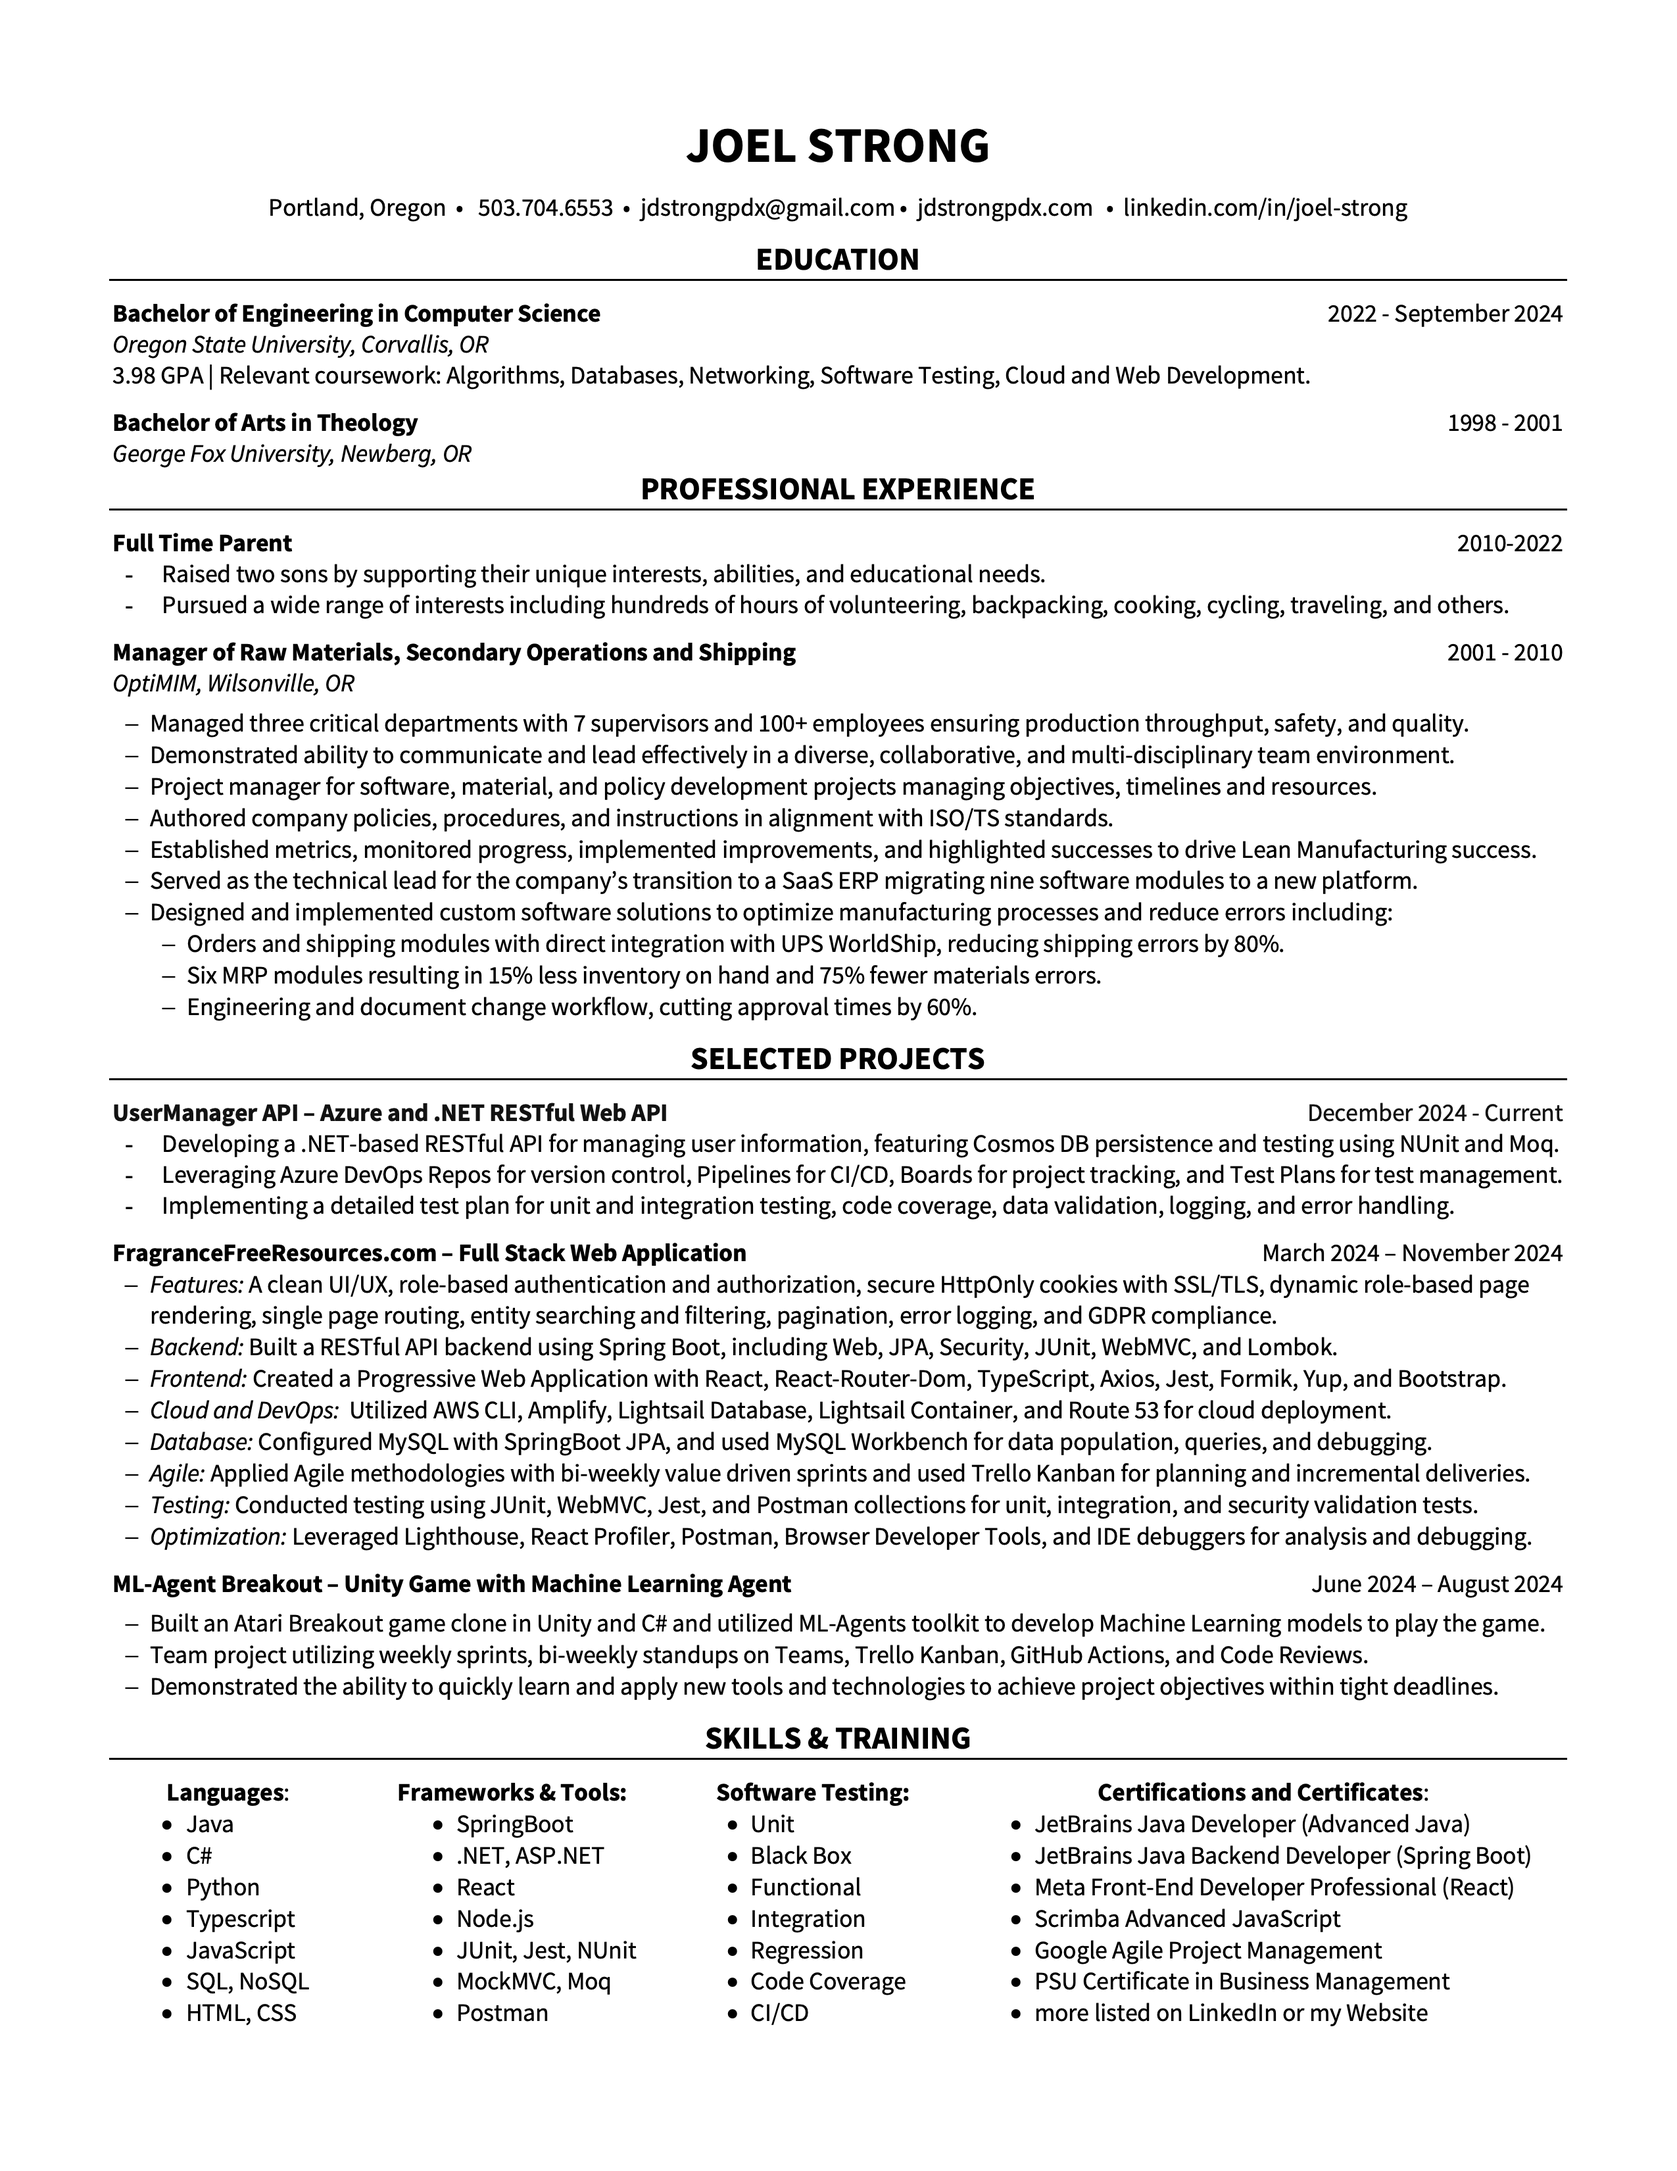
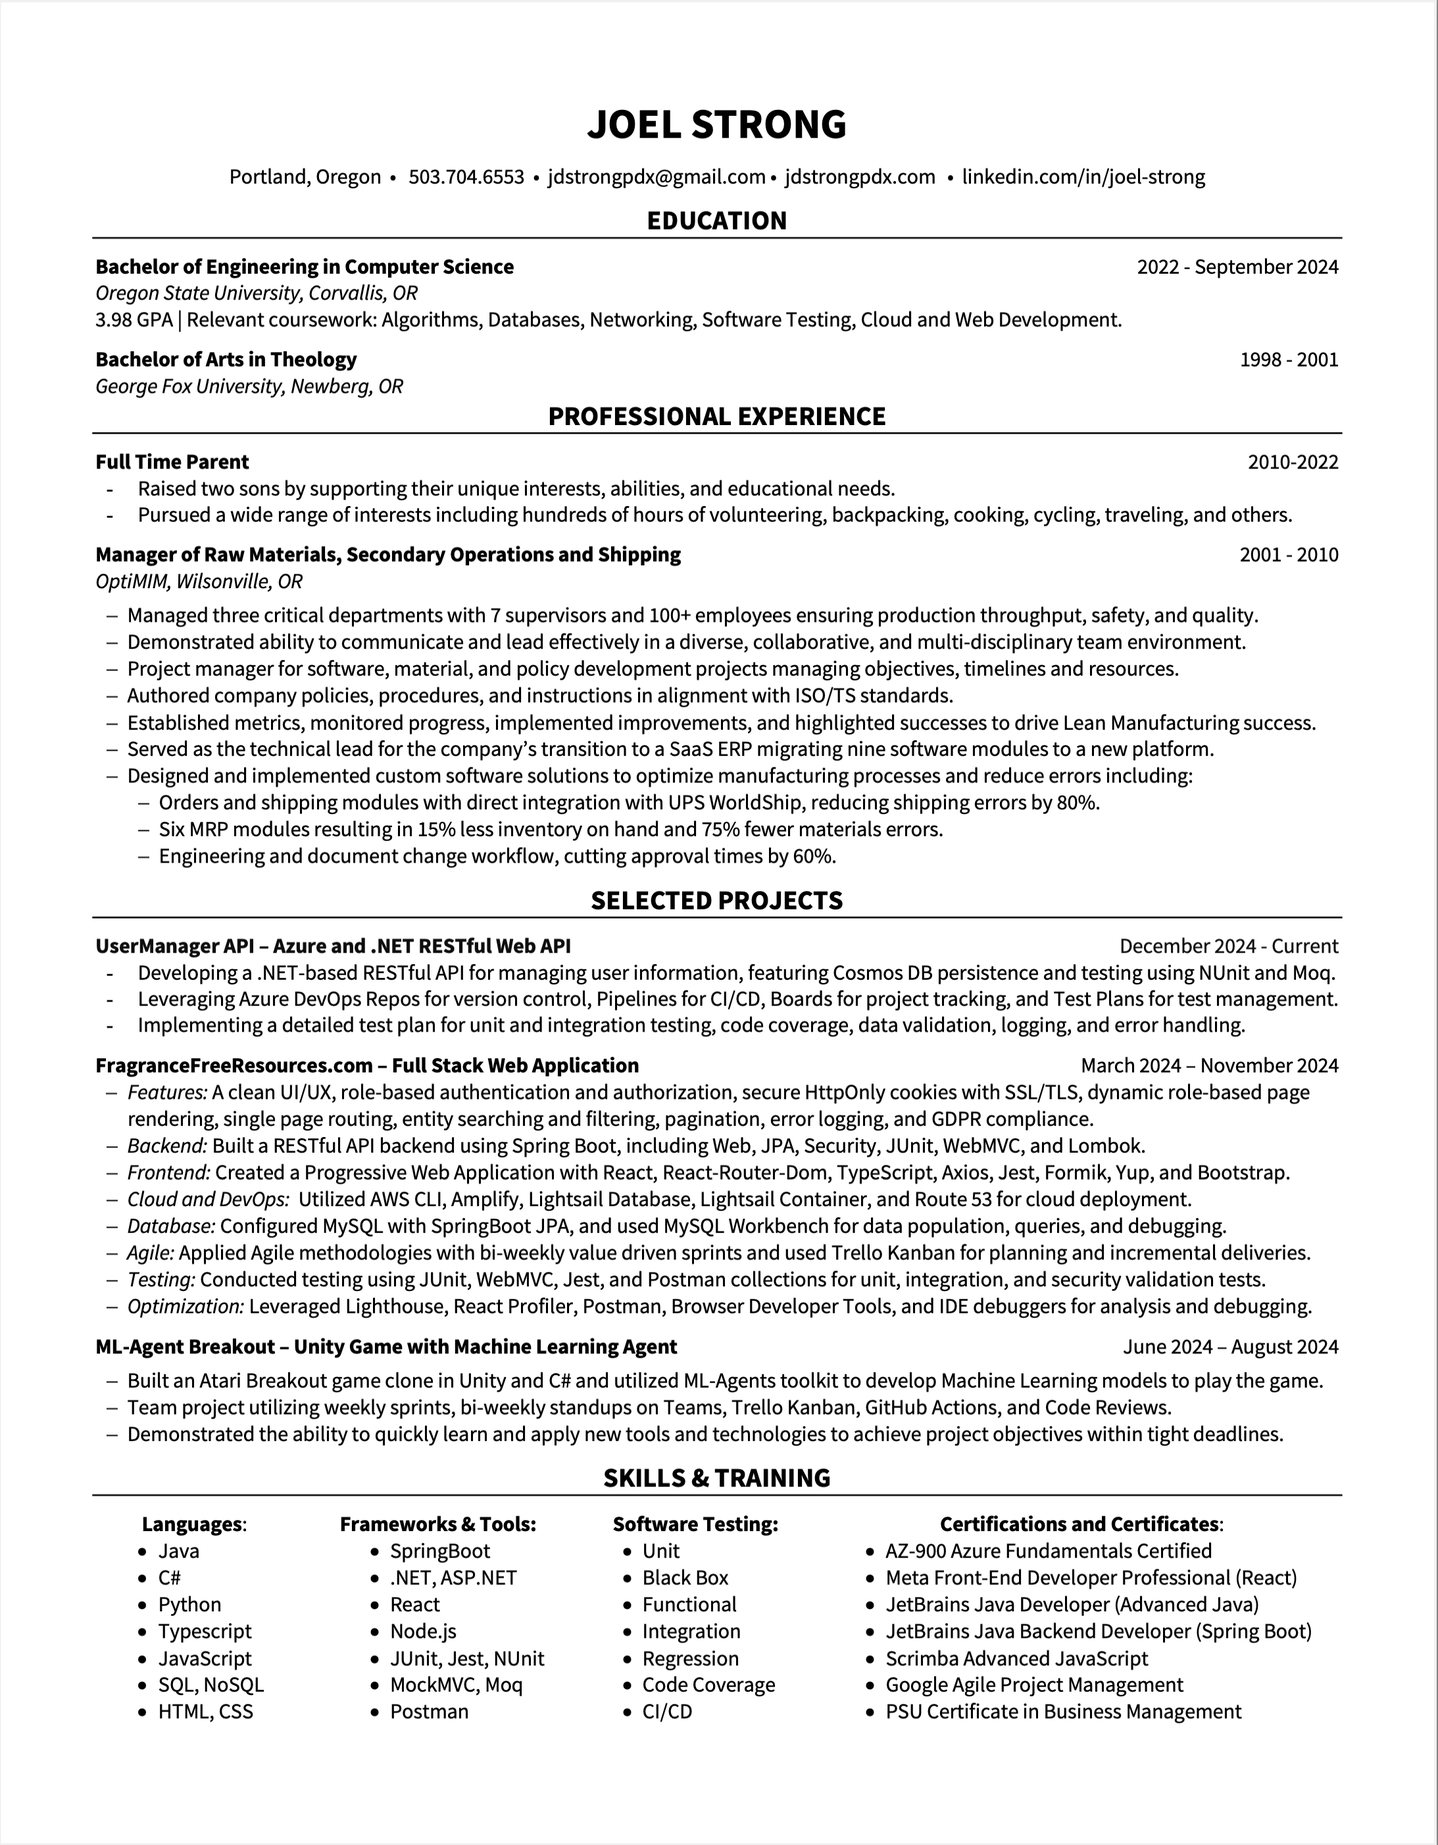
Updated resume and added specialText to display on skills cards.

diff --git a/src/data/certificateData.ts b/src/data/certificateData.ts
@@ -3,36 +3,42 @@ import {ICertificationCategory} from "../interfaces/ICertificate";
 
 const certificateData: ICertificationCategory[] = [
     {
-        title: "Java",
+        title: "Microsoft & Azure Certifications & Certificates",
         certifications: [
             {
-                link: "https://hyperskill.org/certificates/f2e02db5-f71e-49f6-8d0e-16ab49feb9a7.pdf",
-                type: "normal",
-                imgLink: "./certifications/IntroJava.png",
-                title: "Introduction to Java",
-                skills: [SkillsEnum.Java]
-            },
-            {
-                link: "https://hyperskill.org/certificates/df6a1e14-ac88-40f7-96bf-2a5e31fa7e14.pdf",
-                type: "normal",
-                imgLink: "./certifications/JavaDeveloper.png",
-                title: "Java Developer",
-                skills: [SkillsEnum.Java]
-            },
-            {
-                link: "https://hyperskill.org/certificates/e2d4693c-4e90-450d-a207-7d9acc9e374c.pdf",
-                type: "normal",
-                imgLink: "./certifications/IntroSpringBoot.png",
-                title: "Introduction to Spring Boot",
-                skills: [SkillsEnum.Java, SkillsEnum.SpringBoot]
-            },
-            {
-                link: "https://hyperskill.org/certificates/e2d4693c-4e90-450d-a207-7d9acc9e374c.pdf",
-                type: "normal",
-                imgLink: "./certifications/JavaBackend.png",
-                title: "Java Backend Developer (Spring Boot)",
-                skills: [SkillsEnum.Java, SkillsEnum.SpringBoot]
-            },
+                link: "https://learn.microsoft.com/api/credentials/share/en-us/JoelStrong-5632/3D4C9BB4C55BA02D?sharingId=70B86CF6B6C94B8",
+                type: "wide",
+                imgLink: "./certifications/AZ900.png",
+                title: "AZ-900 Azure Fundamentals Certified",
+                redText: "AZ-900 Azure Fundamentals Certified",
+                skills: [SkillsEnum.Azure]
+            }, {
+                link: "https://coursera.org/verify/CV3XUHHEAVSP",
+                type: "wide",
+                imgLink: "./certifications/MicrosoftBackend.png",
+                title: "Foundations of Coding Back-End",
+                skills: [SkillsEnum.CSharp, SkillsEnum.DotNet]
+            }, {
+                link: "https://coursera.org/verify/VRG300EL9FD4",
+                type: "wide",
+                imgLink: "./certifications/CSharp.png",
+                title: "Introduction to Programming with C#",
+                skills: [SkillsEnum.CSharp]
+            }
+            , {
+                link: "https://coursera.org/verify/P5SNT8T9G54C",
+                type: "wide",
+                imgLink: "./certifications/dotNetBackend.png",
+                title: "Back-End Development with .NET",
+                skills: [SkillsEnum.CSharp, SkillsEnum.DotNet, SkillsEnum.AspNet]
+            }
+            , {
+                link: "https://coursera.org/verify/specialization/UXVG5T2J9G5Y",
+                type: "wide",
+                imgLink: "./certifications/AZ900prep.png",
+                title: "AZ-900 Azure Fundamentals Exam Prep",
+                skills: [SkillsEnum.Azure]
+            }
         ]}, {
         title: "Meta Front-End Developer Professional Certificate",
         certifications: [
@@ -88,7 +94,7 @@ const certificateData: ICertificationCategory[] = [
                 skills: []
             }
         ]}, {
-        title: "Front-End",
+        title: "Front-End Certificates",
         certifications: [
             {
                 link: "https://coursera.org/verify/specialization/CFTYPY5EEDKE",
@@ -116,43 +122,38 @@ const certificateData: ICertificationCategory[] = [
                 skills: [SkillsEnum.JavaScript]
             }
         ]}, {
-        title: "Microsoft Certifications",
+        title: "Java",
         certifications: [
             {
-                link: "https://learn.microsoft.com/api/credentials/share/en-us/JoelStrong-5632/3D4C9BB4C55BA02D?sharingId=70B86CF6B6C94B8",
-                type: "wide",
-                imgLink: "./certifications/AZ900.png",
-                title: "Microsoft Certified: Azure Fundamentals",
-                skills: [SkillsEnum.Azure]
-            }, {
-                link: "https://coursera.org/verify/CV3XUHHEAVSP",
-                type: "wide",
-                imgLink: "./certifications/MicrosoftBackend.png",
-                title: "Foundations of Coding Back-End",
-                skills: [SkillsEnum.CSharp, SkillsEnum.DotNet]
-            }, {
-                link: "https://coursera.org/verify/VRG300EL9FD4",
-                type: "wide",
-                imgLink: "./certifications/CSharp.png",
-                title: "Introduction to Programming with C#",
-                skills: [SkillsEnum.CSharp]
-            }
-            , {
-                link: "https://coursera.org/verify/P5SNT8T9G54C",
-                type: "wide",
-                imgLink: "./certifications/dotNetBackend.png",
-                title: "Back-End Development with .NET",
-                skills: [SkillsEnum.CSharp, SkillsEnum.DotNet, SkillsEnum.AspNet]
-            }
-            , {
-                link: "https://coursera.org/verify/specialization/UXVG5T2J9G5Y",
-                type: "wide",
-                imgLink: "./certifications/AZ900prep.png",
-                title: "AZ-900 Azure Fundamentals Exam Prep",
-                skills: [SkillsEnum.Azure]
-            }
+                link: "https://hyperskill.org/certificates/f2e02db5-f71e-49f6-8d0e-16ab49feb9a7.pdf",
+                type: "normal",
+                imgLink: "./certifications/IntroJava.png",
+                title: "Introduction to Java",
+                skills: [SkillsEnum.Java]
+            },
+            {
+                link: "https://hyperskill.org/certificates/df6a1e14-ac88-40f7-96bf-2a5e31fa7e14.pdf",
+                type: "normal",
+                imgLink: "./certifications/JavaDeveloper.png",
+                title: "Java Developer",
+                skills: [SkillsEnum.Java]
+            },
+            {
+                link: "https://hyperskill.org/certificates/e2d4693c-4e90-450d-a207-7d9acc9e374c.pdf",
+                type: "normal",
+                imgLink: "./certifications/IntroSpringBoot.png",
+                title: "Introduction to Spring Boot",
+                skills: [SkillsEnum.Java, SkillsEnum.SpringBoot]
+            },
+            {
+                link: "https://hyperskill.org/certificates/e2d4693c-4e90-450d-a207-7d9acc9e374c.pdf",
+                type: "normal",
+                imgLink: "./certifications/JavaBackend.png",
+                title: "Java Backend Developer (Spring Boot)",
+                skills: [SkillsEnum.Java, SkillsEnum.SpringBoot]
+            },
         ]}, {
-        title: "Python ",
+        title: "Python Certificates",
         certifications: [
             {
                 link: "https://hyperskill.org/certificates/142107e4-68cd-4d83-bd0c-1d53b085e767.pdf",

diff --git a/src/components/SkillsCard.tsx b/src/components/SkillsCard.tsx
@@ -7,13 +7,14 @@ interface SkillsCardProps {
     title: string
     image: string;
     description: string;
-    skill: SkillsEnum
+    skill: SkillsEnum;
+    specialText?: string;
     proficiency: ProficiencyEnum;
     skillsCertificateMap: Record<SkillsEnum, { count: number; titles: string[] }>;
     skillsProjectMap: Map<SkillsEnum, number>;
 }
 
-const SkillsCard: React.FC<SkillsCardProps> = ({ title, image, description, proficiency, skill, skillsCertificateMap, skillsProjectMap}) => {
+const SkillsCard: React.FC<SkillsCardProps> = ({ title, image, description, proficiency, skill, specialText, skillsCertificateMap, skillsProjectMap}) => {
     const certificateCountString: string = !skillsCertificateMap[skill]?.count ? ""
                                             : skillsCertificateMap[skill]?.count === 1 ? "1 Certificate"
                                             : `${skillsCertificateMap[skill]?.count} Certificates`;
@@ -40,7 +41,9 @@ const SkillsCard: React.FC<SkillsCardProps> = ({ title, image, description, prof
                         value={proficiency}
                         disabled
                     />
-                    <p style={{color: '#4e6b97', fontWeight: '700', marginBottom: '5px', textAlign: 'center'}}>
+                    {specialText && <p style={{color: 'green', fontWeight: '700', marginBottom: '5px', textAlign: 'center'}}>
+                        {specialText}</p>}
+                    <p style={{color: '#4e6b97', fontWeight: '700', marginTop: '0px', marginBottom: '5px', textAlign: 'center'}}>
                         {certificateCountString}</p>
                     {description && <p><strong>Experience: </strong>{description}</p>}
                 </div>

diff --git a/src/data/skillsData.ts b/src/data/skillsData.ts
@@ -139,8 +139,9 @@ const skillsData: ISkillDataList = {
                 {
                     title: "Azure Services",
                     image: "/logos/azure.png",
-                    description: "Using Azure Services to deploy .NET, Cosmos DB and React applications. Microsoft AZ-900 Azure Fundamentals Certified.",
+                    description: "Using Azure Services to deploy .NET, Cosmos DB and React applications using App Service, Azure Cosmos DB, and Web Apps. Microsoft AZ-900 Azure Fundamentals Certified.",
                     skill: SkillsEnum.Azure,
+                    specialText: "AZ-900 Azure Fundamentals Certified",
                     proficiency: ProficiencyEnum.Intermediate,
                 },
                 {

diff --git a/src/pages/SkillsPage.tsx b/src/pages/SkillsPage.tsx
@@ -89,6 +89,7 @@ const SkillsPage = () => {
                                         description={skill.description}
                                         proficiency={skill.proficiency}
                                         skill={skill.skill}
+                                        specialText={skill.specialText}
                                         skillsCertificateMap={skillsCertificateMap}
                                         skillsProjectMap={skillsProjectMap}
                                     />

diff --git a/src/interfaces/ISkillLanguage.ts b/src/interfaces/ISkillLanguage.ts
@@ -6,5 +6,6 @@ export default interface ISkillLanguage {
     image: string;
     description: string;
     skill: SkillsEnum;
+    specialText?: string;
     proficiency: ProficiencyEnum;
 }

diff --git a/src/interfaces/ICertificate.ts b/src/interfaces/ICertificate.ts
@@ -5,6 +5,7 @@ export interface ICertification {
     type: string;
     imgLink: string;
     title: string;
+    redText?: string;
     skills?: SkillsEnum[];
 }
 
